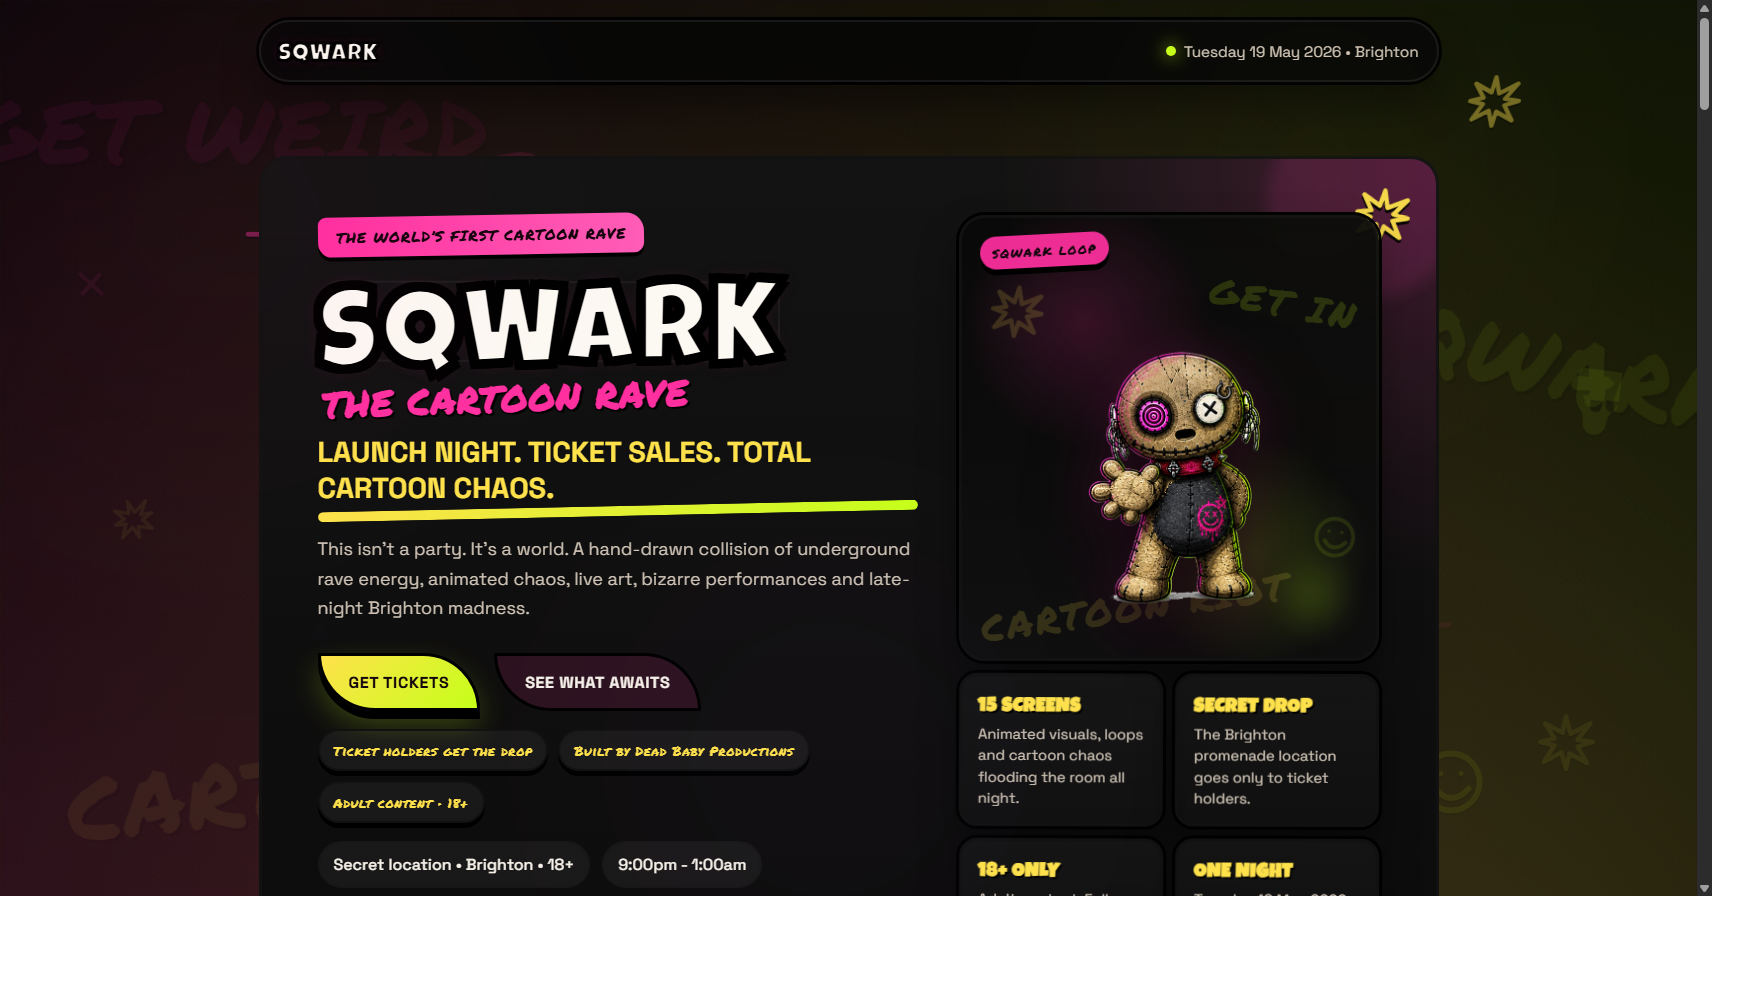
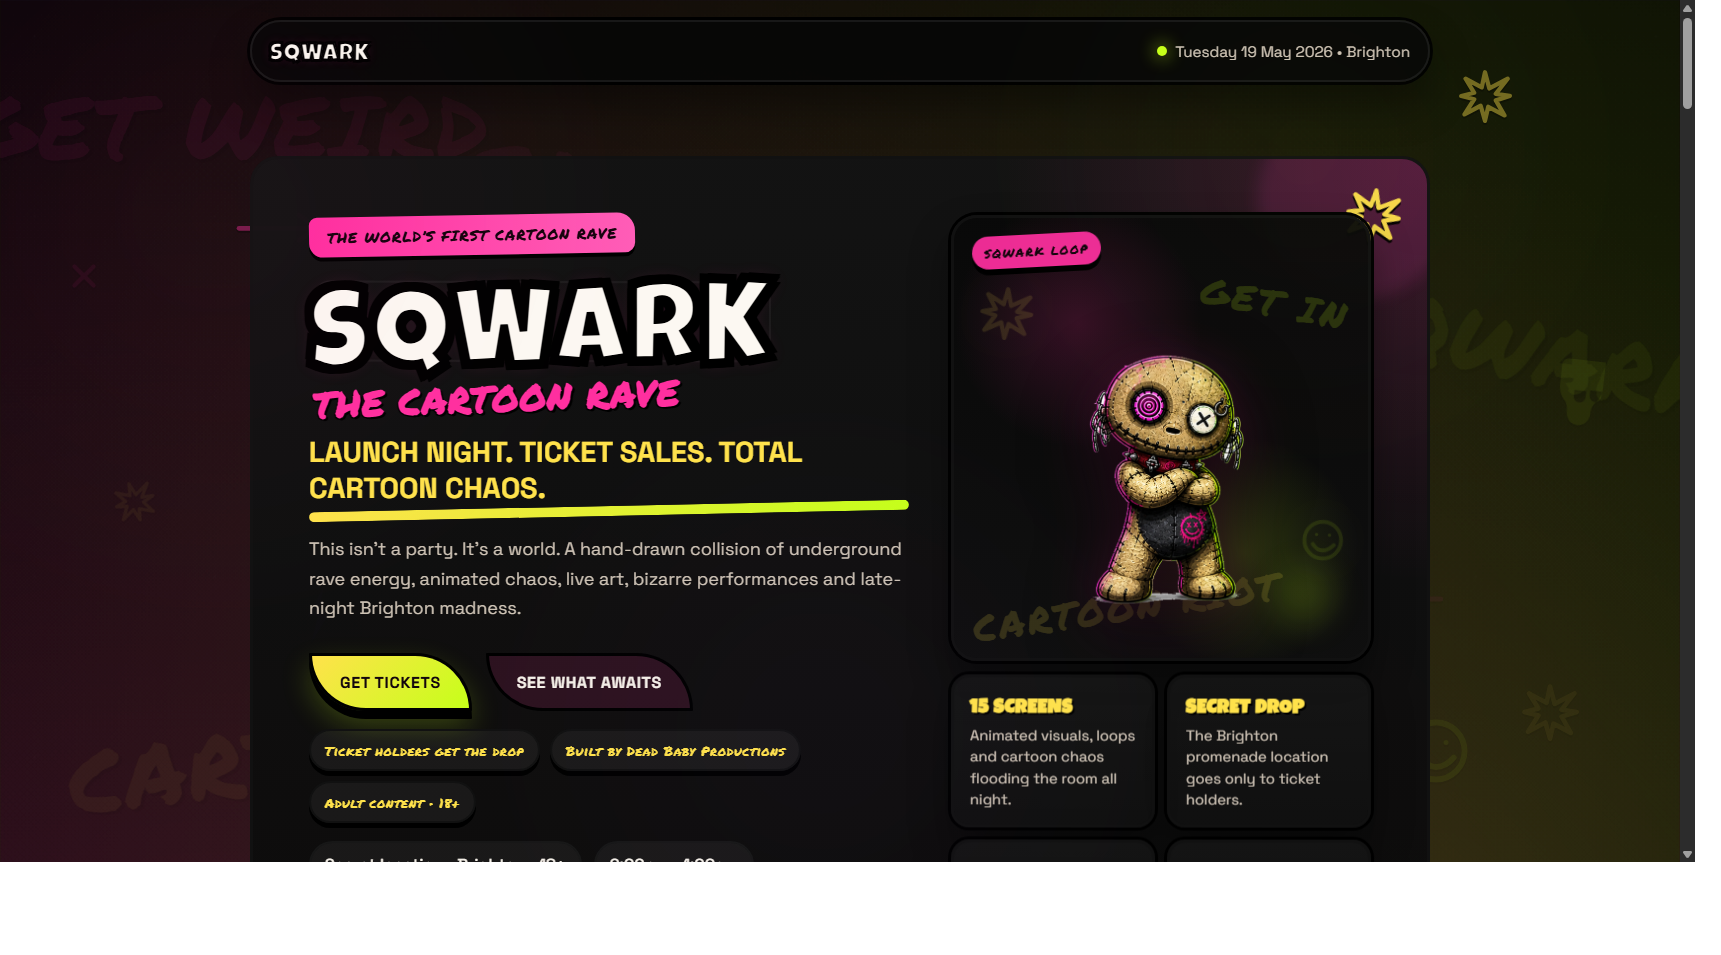
Update SQWARK ticket links and site assets

diff --git a/index.html b/index.html
@@ -3380,7 +3380,7 @@
     }
   </style>
 </head>
-<body data-layout="standard" data-colorway="rave-neon">
+<body data-layout="standard" data-colorway="confetti-kick">
   <div class="page-shell">
     <div class="bg-graffiti" aria-hidden="true">
       <span class="bg-tag bg-tag-pink bg-tag-a">Get Weird</span>
@@ -3528,7 +3528,7 @@
                 </p>
 
                 <div class="hero-actions">
-                  <a class="button button-primary" href="https://example.com/tickets" target="_blank" rel="noreferrer">
+                  <a class="button button-primary" href="https://sqwark.ticmint.com/event/sqwark-the-cartoon-rave-16405" target="_blank" rel="noreferrer">
                     Get Tickets
                   </a>
                   <a class="button button-secondary" href="#what-to-expect">See What Awaits</a>
@@ -4025,10 +4025,10 @@
               <aside class="ticket-card">
                 <h3>Get Tickets Now</h3>
                 <p>Step inside SQWARK before this one disappears into the static.</p>
-                <a class="button button-primary" href="https://example.com/tickets" target="_blank" rel="noreferrer">
+                <a class="button button-primary" href="https://sqwark.ticmint.com/event/sqwark-the-cartoon-rave-16405" target="_blank" rel="noreferrer">
                   Get Tickets
                 </a>
-                <span class="ticket-link-note">Replace `https://example.com/tickets` with your live ticket URL.</span>
+                <span class="ticket-link-note">Tickets are live now through Ticmint.</span>
                 <div class="placeholder-box">
                   Optional add-on: include ticket tiers, prices or a countdown widget here.
                 </div>
@@ -4096,7 +4096,7 @@
             <p>
               The screens are flickering. The room is waiting. Capacity is tight and the weirdness won’t wait around.
             </p>
-            <a class="button button-primary" href="https://example.com/tickets" target="_blank" rel="noreferrer">
+            <a class="button button-primary" href="https://sqwark.ticmint.com/event/sqwark-the-cartoon-rave-16405" target="_blank" rel="noreferrer">
               Get Tickets
             </a>
           </div>
@@ -4120,11 +4120,11 @@
           <div class="theme-toggle-group">
             <span class="theme-toggle-group-label">Colourway</span>
             <div class="theme-toggle-buttons" role="group" aria-label="Colourway selector">
-              <button class="theme-button is-active" type="button" data-colorway-option="rave-neon">Rave Neon</button>
+              <button class="theme-button" type="button" data-colorway-option="rave-neon">Rave Neon</button>
               <button class="theme-button" type="button" data-colorway-option="poster-pop">Poster Pop</button>
               <button class="theme-button" type="button" data-colorway-option="basement-blue">Basement Blue</button>
               <button class="theme-button" type="button" data-colorway-option="metro-zine">Metro Zine</button>
-              <button class="theme-button" type="button" data-colorway-option="confetti-kick">Confetti Kick</button>
+              <button class="theme-button is-active" type="button" data-colorway-option="confetti-kick">Confetti Kick</button>
               <button class="theme-button" type="button" data-colorway-option="blob-wave">Blob Wave</button>
             </div>
           </div>
@@ -4157,7 +4157,7 @@
       }
 
       const savedLayout = window.localStorage.getItem(layoutStorageKey) || "standard";
-      const savedColorway = window.localStorage.getItem(colorwayStorageKey) || "rave-neon";
+      const savedColorway = window.localStorage.getItem(colorwayStorageKey) || "confetti-kick";
       applyLayout(savedLayout);
       applyColorway(savedColorway);
 
